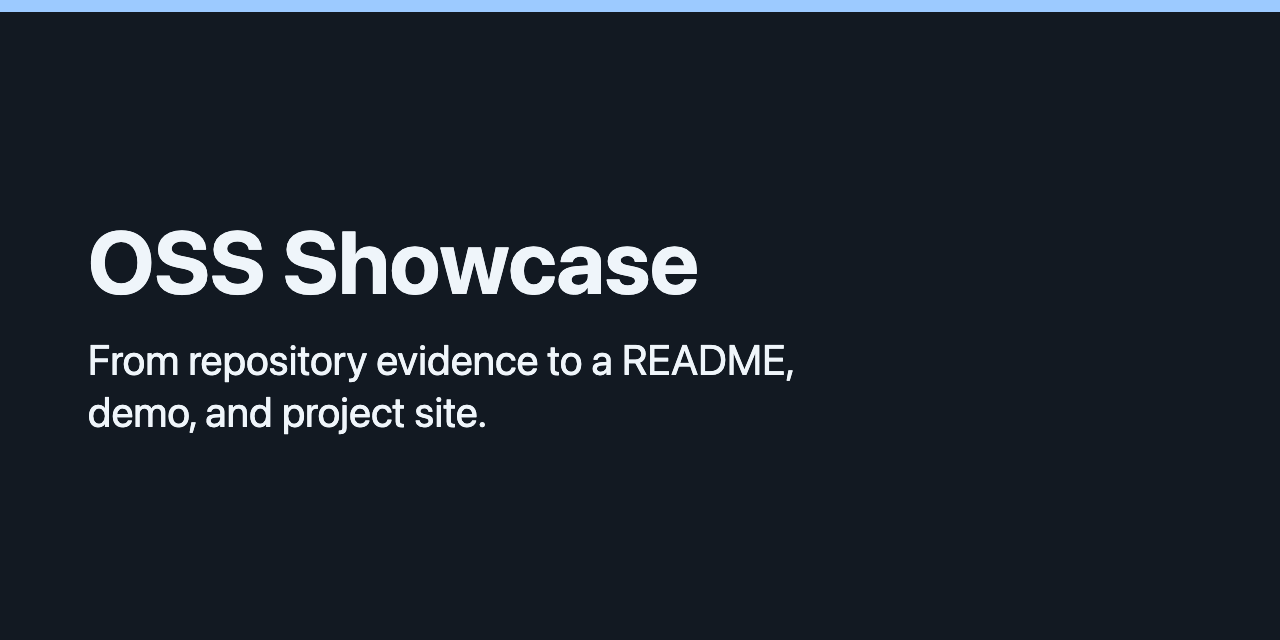
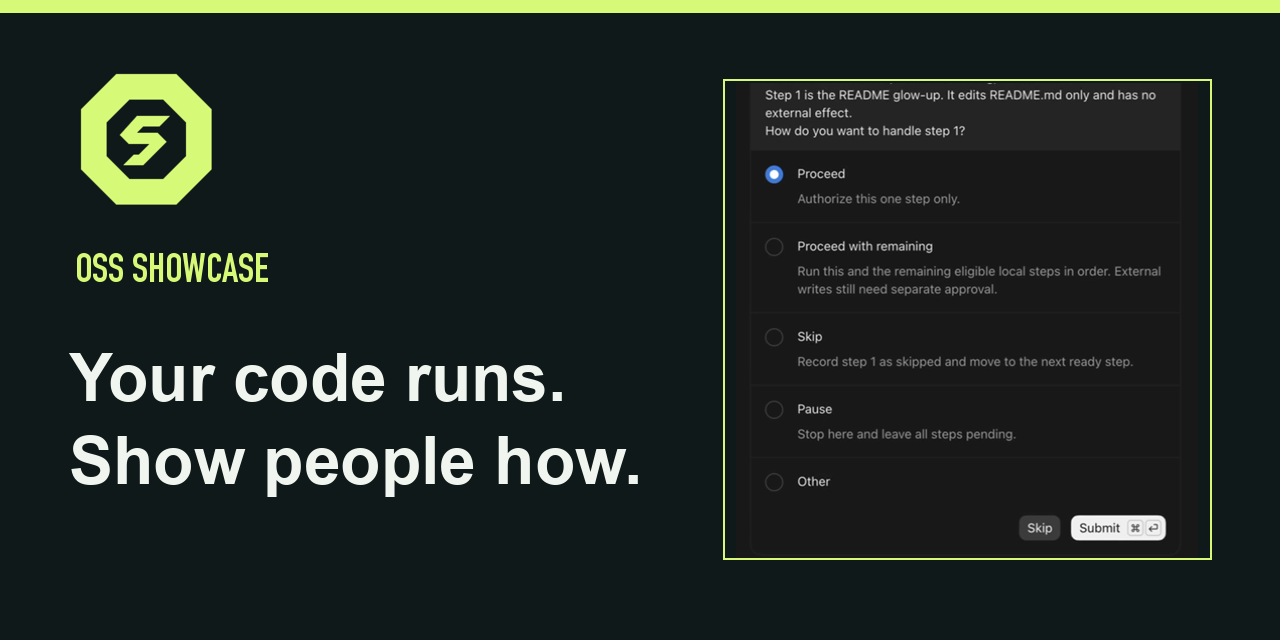
docs(launch): add market research, discovery copy, and calendar (#16)
## Summary

- Add dated market discovery and compare the closest launch skill,
README tools, a marketing skill library, and the manual workflow.
- Tie the launch to a real moment in the Task Counter demo. Revise the
Product Hunt, X, and r/sideprojects drafts and add a proposed calendar
with review gates, channels, and measurement.
- Refine the Pages copy, direct answers, canonical and social metadata
consistency, and evidence links. Refresh the preview card with the Otto
S mark and a real approval frame.

## Verification

- Seven repository tests and the installed-skill smoke test passed. The
Pages validator staged eight allowlisted files.
- Chrome showed no horizontal overflow at 390, 768 and 1440 px.
Lighthouse desktop staging scored 100 for SEO, accessibility, best
practices, and agentic browsing.
- Verified draft lengths, links, schema agreement, sitemap and Product
Hunt timezone conversion.

The revised Pages artifact awaits deployment. Social posts and the
launch dates await approval. Search indexing and AI citation coverage
remain unverified.

diff --git a/docs/index.html b/docs/index.html
@@ -3,21 +3,23 @@
 <head>
   <meta charset="utf-8">
   <meta name="viewport" content="width=device-width, initial-scale=1">
-  <title>OSS Showcase: README, Demos, and GitHub Pages</title>
-  <meta name="description" content="An Agent Skill for maintainers. Build an evidence-backed README, record a reproducible demo, and generate and validate a static GitHub Pages site.">
+  <title>OSS Showcase: Agent Skill for GitHub Project Launches</title>
+  <meta name="description" content="Your code runs. Show people how. OSS Showcase is an Agent Skill for building a README, real demo, and GitHub Pages site from a working repo.">
   <link rel="canonical" href="https://ifthenelse.github.io/oss-showcase/">
   <meta property="og:type" content="website">
-  <meta property="og:title" content="OSS Showcase: README, Demos, and GitHub Pages">
-  <meta property="og:description" content="An Agent Skill for maintainers. Build an evidence-backed README, record a reproducible demo, and generate and validate a static GitHub Pages site.">
+  <meta property="og:title" content="OSS Showcase: Agent Skill for GitHub Project Launches">
+  <meta property="og:description" content="Your code runs. Show people how. OSS Showcase is an Agent Skill for building a README, real demo, and GitHub Pages site from a working repo.">
   <meta property="og:url" content="https://ifthenelse.github.io/oss-showcase/">
   <meta name="twitter:card" content="summary_large_image">
+  <meta name="twitter:title" content="OSS Showcase: Agent Skill for GitHub Project Launches">
+  <meta name="twitter:description" content="Your code runs. Show people how. OSS Showcase is an Agent Skill for building a README, real demo, and GitHub Pages site from a working repo.">
 <meta property="og:image" content="https://ifthenelse.github.io/oss-showcase/assets/social.png">
-  <meta property="og:image:alt" content="OSS Showcase. From repository evidence to a README, demo, and project site.">
+  <meta property="og:image:alt" content="OSS Showcase and the Claude Desktop approval screen. Your code runs. Show people how.">
   <meta name="twitter:image" content="https://ifthenelse.github.io/oss-showcase/assets/social.png">
-  <meta name="twitter:image:alt" content="OSS Showcase. From repository evidence to a README, demo, and project site.">
+  <meta name="twitter:image:alt" content="OSS Showcase and the Claude Desktop approval screen. Your code runs. Show people how.">
   <link rel="icon" href="assets/otto-s-favicon.svg">
   <link rel="stylesheet" href="assets/showcase.css">
-<script type="application/ld+json">{"@context": "https://schema.org", "@type": "SoftwareSourceCode", "url": "https://ifthenelse.github.io/oss-showcase/", "name": "OSS Showcase", "description": "An Agent Skill for maintainers. Build an evidence-backed README, record a reproducible demo, and generate and validate a static GitHub Pages site."}</script>
+<script type="application/ld+json">{"@context": "https://schema.org", "@type": "SoftwareSourceCode", "url": "https://ifthenelse.github.io/oss-showcase/", "name": "OSS Showcase", "description": "Your code runs. Show people how. OSS Showcase is an Agent Skill for building a README, real demo, and GitHub Pages site from a working repo."}</script>
 </head>
 <body>
   <a class="skip" href="#main">Skip to content</a>
@@ -34,24 +36,28 @@
     <div class="hero">
       <div class="hero-copy">
         <h1>OSS Showcase</h1>
-        <p class="intro">An Agent Skill for maintainers. Build an evidence-backed README, record a reproducible demo, and generate and validate a static GitHub Pages site.</p>
+        <p class="intro">Your code runs. Show people how. OSS Showcase is an Agent Skill for building a README, real demo, and GitHub Pages site from a working repo.</p>
         <section id="quickstart" aria-labelledby="install-heading">
-          <h2 id="install-heading">Install and run</h2>
-          <p>From the folder you want to showcase, install the skill with Node.js and npm available. Choose your agent when prompted.</p>
+          <h2 id="install-heading">Install OSS Showcase</h2>
+          <p>From your project folder, run this command with Node.js and npm installed. Choose your agent when prompted.</p>
           <pre tabindex="0"><code>npx skills add ifthenelse/oss-showcase --skill oss-showcase</code></pre>
-          <p>Open a session in the target project. Run $oss-showcase in Codex or /oss-showcase in Claude Code. The current default branch starts by proposing a plan.</p>
+          <p>Run $oss-showcase in Codex or /oss-showcase in Claude Code. In GitHub Copilot, ask it to use OSS Showcase in the current project. It starts with an ordered plan.</p>
         </section>
       </div>
       <section class="demo" id="demo" aria-labelledby="demo-heading">
-        <h2 id="demo-heading">See the skill in action</h2>
-        <figure><video controls muted playsinline preload="none" aria-label="OSS Showcase guided plan and first approval in Codex CLI, Claude Code CLI, and Claude Desktop" poster="assets/showcase-demo-poster.png" src="assets/showcase-demo.mp4"></video><figcaption>Codex CLI and Claude Code in the terminal and desktop app inspect the same synthetic Task Counter project. The skill proposes a showcase plan and asks how to proceed with the first step.</figcaption></figure>
+        <h2 id="demo-heading">Watch the first decision</h2>
+        <figure><video controls muted playsinline preload="none" aria-label="OSS Showcase guided plan and first approval in Codex CLI, Claude Code CLI, and Claude Desktop" poster="assets/showcase-demo-poster.png" src="assets/showcase-demo.mp4"></video><figcaption>The 58-second recording shows the real clients giving a plan for the synthetic Task Counter project and pausing at the first decision.</figcaption></figure>
       </section>
     </div>
     <div class="answers">
-<section><h2>What does OSS Showcase produce?</h2><p>It helps you prepare a README, a reproducible demo, a static project page, and launch drafts. Public claims and examples come from project files or tests. The static generator stages a reviewed file list before GitHub Pages deployment.</p></section>
-    <section><h2>What stays under your control?</h2><p>Approve one step at a time or authorize the remaining eligible steps in the plan. Public destinations and payloads need explicit approval. The skill records unfinished work in docs/HANDOFF.md in the target project.</p></section>
-    <section><h2>Can I review an existing project first?</h2><p>Yes. Use the audit mode for a read-only review of the existing showcase. Use launch mode to prepare channel drafts and publish mode to execute an approved publication.</p></section>
+<section><h2>What is OSS Showcase?</h2><p>OSS Showcase is an Agent Skill for maintainers preparing a GitHub project launch. It uses repository files, examples, and tests to plan a README, reproducible demo, static Pages site, and channel drafts.</p></section>
+    <section><h2>What happens before the first edit?</h2><p>OSS Showcase proposes an ordered plan and asks how you want to proceed. Approve one step, approve the remaining eligible local steps, or skip the current step. The handoff records unfinished work. Public publishing requires a separate confirmation.</p></section>
+    <section><h2>What does the Task Counter demo show?</h2><p>A small Python CLI counts task names. The 58-second recording shows Codex CLI, Claude Code CLI, and Claude Desktop planning a showcase for that fixture and stopping at the first decision.</p></section>
+    <section><h2>Which files reach GitHub Pages?</h2><p>A Python generator builds static HTML, CSS, and a sitemap. The validator stages the files listed in the public manifest and rejects content that differs from the reviewed hashes. The handoff and private notes stay outside the Pages artifact.</p></section>
     </div>
+    <p>See the <a href="https://github.com/ifthenelse/oss-showcase/blob/main/references/execution.md#guided-workflow">approval rules</a>,
+      <a href="https://github.com/ifthenelse/oss-showcase/blob/main/.agents/showcase/demo/README.md">demo recipe</a>, and
+      <a href="https://github.com/ifthenelse/oss-showcase/blob/main/references/state.md">generator and validation guide</a>.</p>
   </main>
 </body>
 </html>

diff --git a/.agents/showcase/templates/index.html b/.agents/showcase/templates/index.html
@@ -3,14 +3,16 @@
 <head>
   <meta charset="utf-8">
   <meta name="viewport" content="width=device-width, initial-scale=1">
-  <title>$title: README, Demos, and GitHub Pages</title>
+  <title>$title: Agent Skill for GitHub Project Launches</title>
   <meta name="description" content="$summary">
   <link rel="canonical" href="$canonical">
   <meta property="og:type" content="website">
-  <meta property="og:title" content="$title: README, Demos, and GitHub Pages">
+  <meta property="og:title" content="$title: Agent Skill for GitHub Project Launches">
   <meta property="og:description" content="$summary">
   <meta property="og:url" content="$canonical">
   <meta name="twitter:card" content="$card">
+  <meta name="twitter:title" content="$title: Agent Skill for GitHub Project Launches">
+  <meta name="twitter:description" content="$summary">
 $social
   $favicon
   <link rel="stylesheet" href="assets/showcase.css">
@@ -40,13 +42,16 @@ $schema
         </section>
       </div>
       <section class="demo" id="demo" aria-labelledby="demo-heading">
-        <h2 id="demo-heading">See the skill in action</h2>
+        <h2 id="demo-heading">Watch the first decision</h2>
         $demo
       </section>
     </div>
     <div class="answers">
 $sections
     </div>
+    <p>See the <a href="$repo/blob/main/references/execution.md#guided-workflow">approval rules</a>,
+      <a href="$repo/blob/main/.agents/showcase/demo/README.md">demo recipe</a>, and
+      <a href="$repo/blob/main/references/state.md">generator and validation guide</a>.</p>
   </main>
 </body>
 </html>

diff --git a/.agents/showcase/templates/showcase.css b/.agents/showcase/templates/showcase.css
@@ -41,5 +41,5 @@ figcaption { margin-top: .5rem; color: var(--muted); }
 
 @media (min-width: 800px) {
   .hero { grid-template-columns: minmax(0, 1fr) minmax(0, 1.05fr); align-items: start; }
-  .answers { grid-template-columns: repeat(3, minmax(0, 1fr)); }
+  .answers { grid-template-columns: repeat(2, minmax(0, 1fr)); }
 }

diff --git a/docs/assets/showcase.css b/docs/assets/showcase.css
@@ -41,5 +41,5 @@ figcaption { margin-top: .5rem; color: var(--muted); }
 
 @media (min-width: 800px) {
   .hero { grid-template-columns: minmax(0, 1fr) minmax(0, 1.05fr); align-items: start; }
-  .answers { grid-template-columns: repeat(3, minmax(0, 1fr)); }
+  .answers { grid-template-columns: repeat(2, minmax(0, 1fr)); }
 }
